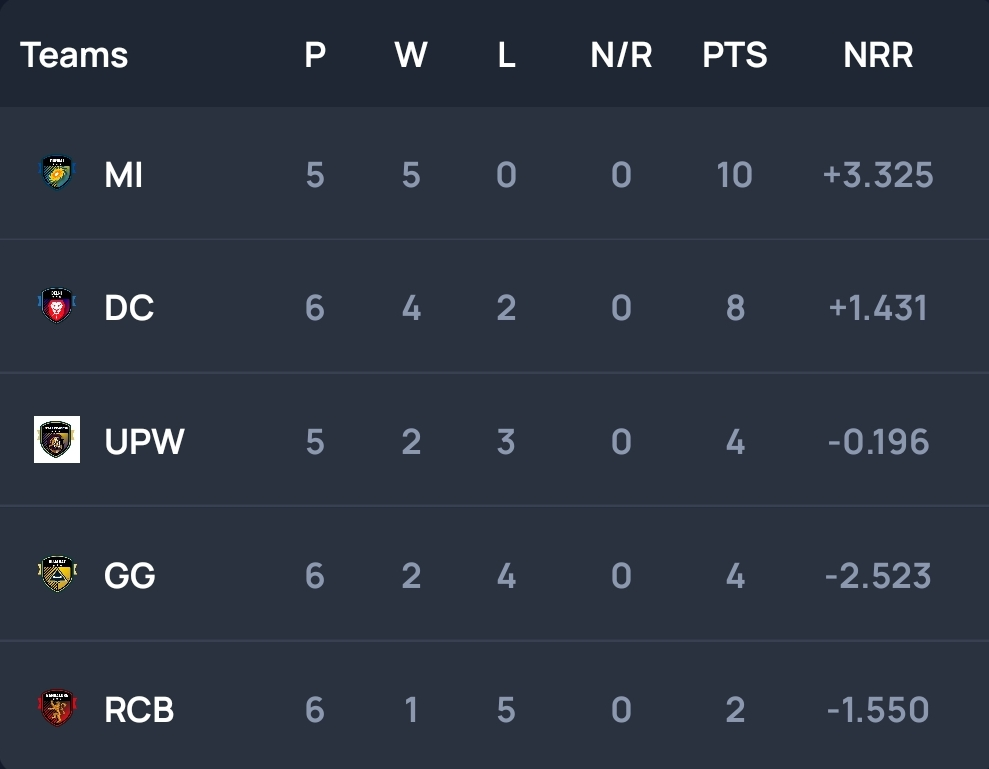
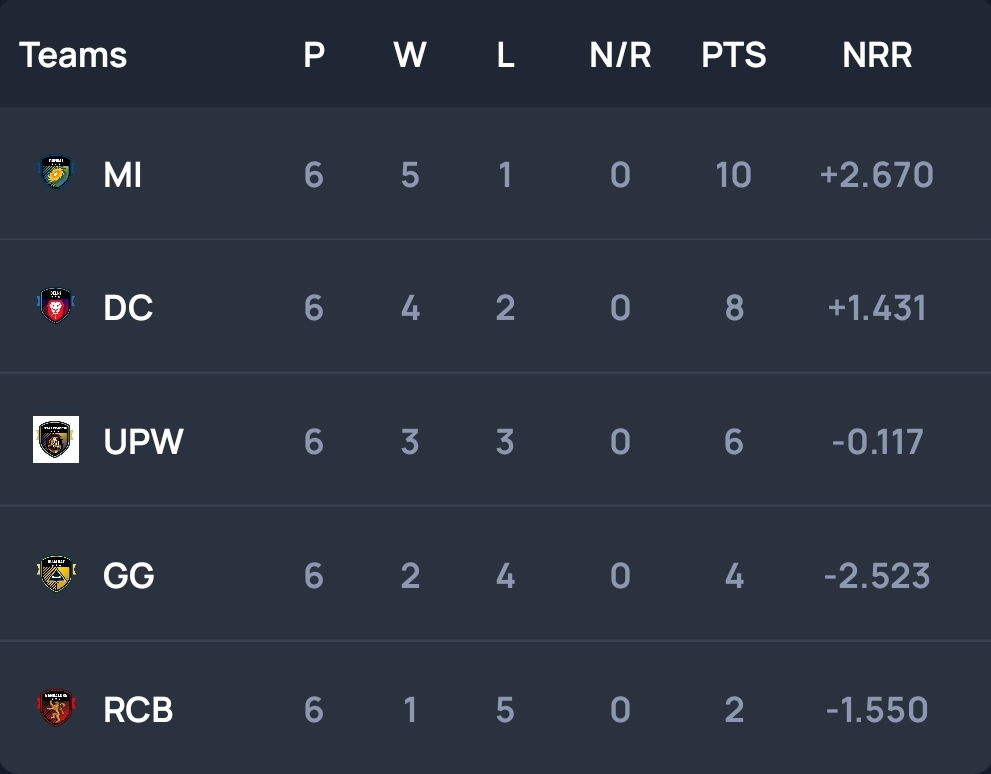
changes 9

diff --git a/index.html b/index.html
@@ -152,7 +152,7 @@
                 </a></li>
               <li class="tab"><a href="#wpl" class="active blue-grey darken-4 amber-text text-accent-2">
                   <h6>WPL 2023<br>
-                    <!-- <img src="images/Red.gif" width="12px" height="12px"> <span class="red-text"><b>LIVE</b></span> -->
+                    <img src="images/Red.gif" width="12px" height="12px"> <span class="red-text"><b>LIVE</b></span>
                   </h6>
                 </a></li>
               <li class="tab"><a href="#ipl" class="blue-grey darken-4 amber-text text-accent-2">
@@ -244,9 +244,9 @@
           <div class="modal-content">
             <h6 class="white-text"><b>TOSS</b>:IND opted to field</h6>
             <h5 class="amber-text text-accent-2"><b>INDIA</b>: 191/5 (39.5 Overs)</h5>
-              <img src="images/mch81/1.jpg" width="100%" class="responsive-img">
-              <img src="images/mch81/2.jpg" width="100%" class="responsive-img">
-              <img src="images/mch81/3.jpg" width="100%" class="responsive-img">
+            <img src="images/mch81/1.jpg" width="100%" class="responsive-img">
+            <img src="images/mch81/2.jpg" width="100%" class="responsive-img">
+            <img src="images/mch81/3.jpg" width="100%" class="responsive-img">
             <h5 class="amber-text text-accent-2"><b>AUSTRALIA</b>: 188/10 (35.4 Overs)</h5>
             <img src="images/mch81/4.jpg" width="100%" class="responsive-img">
             <img src="images/mch81/5.jpg" width="100%" class="responsive-img">
@@ -465,22 +465,20 @@
         </div>
         <div class="modal blue-grey darken-4 white-text" id="wpl15">
           <div class="modal-content">
-            <h6 class="white-text"><b>TOSS</b>: opted to </h6>
-            <iframe src="https://www.cricket.com/match-score/221922/scorecard" width="100%" height="3000px"
-              scrolling="no"></iframe>
+            <h6 class="white-text"><b>TOSS</b>:UPW opted to field</h6>
             <h5 class="amber-text text-accent-2"><b>MI</b></h5>
-            <!-- <img src="images/wpl15/1.jpg" width="100%" class="responsive-img">
+            <img src="images/wpl15/1.jpg" width="100%" class="responsive-img">
             <img src="images/wpl15/2.jpg" width="100%" class="responsive-img">
-            <img src="images/wpl15/3.jpg" width="100%" class="responsive-img"> -->
+            <img src="images/wpl15/3.jpg" width="100%" class="responsive-img">
             <h5 class="amber-text text-accent-2"><b>UPW</b></h5>
-            <!-- <img src="images/wpl15/4.jpg" width="100%" class="responsive-img">
+            <img src="images/wpl15/4.jpg" width="100%" class="responsive-img">
             <img src="images/wpl15/5.jpg" width="100%" class="responsive-img">
-            <img src="images/wpl15/6.jpg" width="100%" class="responsive-img"> -->
+            <img src="images/wpl15/6.jpg" width="100%" class="responsive-img">
           </div>
         </div>
         <div class="modal blue-grey darken-4 white-text" id="wpl16">
           <div class="modal-content">
-            <h6 class="white-text"><b>TOSS</b>: opted to </h6>
+            <h6 class="white-text"><b>TOSS</b>:GG opted to bat</h6>
             <iframe src="https://www.cricket.com/match-score/221923/scorecard" width="100%" height="3000px"
               scrolling="no"></iframe>
             <h5 class="amber-text text-accent-2"><b>RCB</b></h5>
@@ -808,7 +806,7 @@
               <li>
                 <div class="collapsible-header blue-grey darken-4"><b>WPL POINTS TABLE</b></div>
                 <div class="collapsible-body">
-                  <h6 class="white-text"><b>LAST UPDATE</b>: After Match 14</h6>
+                  <h6 class="white-text"><b>LAST UPDATE</b>: After Match 15</h6>
                   <img src="wplpt.jpg" class="responsive-img">
                 </div>
               </li>
@@ -841,8 +839,8 @@
                 <div class="collapsible-header pink accent-3 white-text active"><b>WATCH WPL LIVE</b></div>
                 <span id="view"></span>
                 <div class="collapsible-body">
-                  <iframe src="https://www.jiocinema.com/sports/delhi-capitals-vs-gujarat-giants/3707419" width="100%"
-                    height="600px" scrolling="no"></iframe>
+                  <iframe src="https://www.jiocinema.com/sports/rcb-vs-gg/3707421" width="100%" height="600px"
+                    scrolling="no"></iframe>
                 </div>
               </li>
             </ul>
@@ -1065,22 +1063,24 @@
                       </h6>
                     </div>
                     <div class="card-panel blue-grey darken-4 white-text col s12 m12 l4 z-depth-2">
-                      <h6> &#10148; Match 15: March 18, 15:30 IST<br><i class="fa-solid fa-map-marker-alt"></i> Navi Mumbai</h6>
+                      <h6> &#10148; Match 15: March 18, 15:30 IST<br><i class="fa-solid fa-map-marker-alt"></i> Navi
+                        Mumbai</h6>
                       <hr>
                       <h6 class="col s7 m7 l7">
                         <img src="https://images.cricket.com/teams/1111_flag_safari.png" class="circle ipl">
                         <b>Mumbai Indians</b></h6>
-                      <h6 class="col s5 m5 l5 transparent-text">-</h6>
+                      <h6 class="col s5 m5 l5">127</h6>
                       <h6 class="col s7 m7 l7">
                         <img src="https://images.cricket.com/teams/2954_flag_safari.png" class="circle ipl">
                         <b>UP Warriorz</b></h6>
-                      <h6 class="col s5 m5 l5 transparent-text">-</h6>
-                      <h6 class="transparent-text"><b>-</b> won by -</h6>
+                      <h6 class="col s5 m5 l5">129/5 (19.3)</h6>
+                      <h6><b>UP Warriorz</b> won by 5 WKTS</h6>
                       <h6><a href="#wpl15" class="oui-button modal-trigger pink accent-3 white-text">Full Scores</a>
                       </h6>
                     </div>
                     <div class="card-panel blue-grey darken-4 white-text col s12 m12 l4 z-depth-2">
-                      <h6> &#10148; Match 16: March 18, 19:30 IST<br><i class="fa-solid fa-map-marker-alt"></i> Mumbai</h6>
+                      <h6> &#10148; Match 16: March 18, 19:30 IST<br><i class="fa-solid fa-map-marker-alt"></i> Mumbai
+                      </h6>
                       <hr>
                       <h6 class="col s7 m7 l7">
                         <img src="https://images.cricket.com/teams/1105_flag_safari.png" class="circle ipl">
